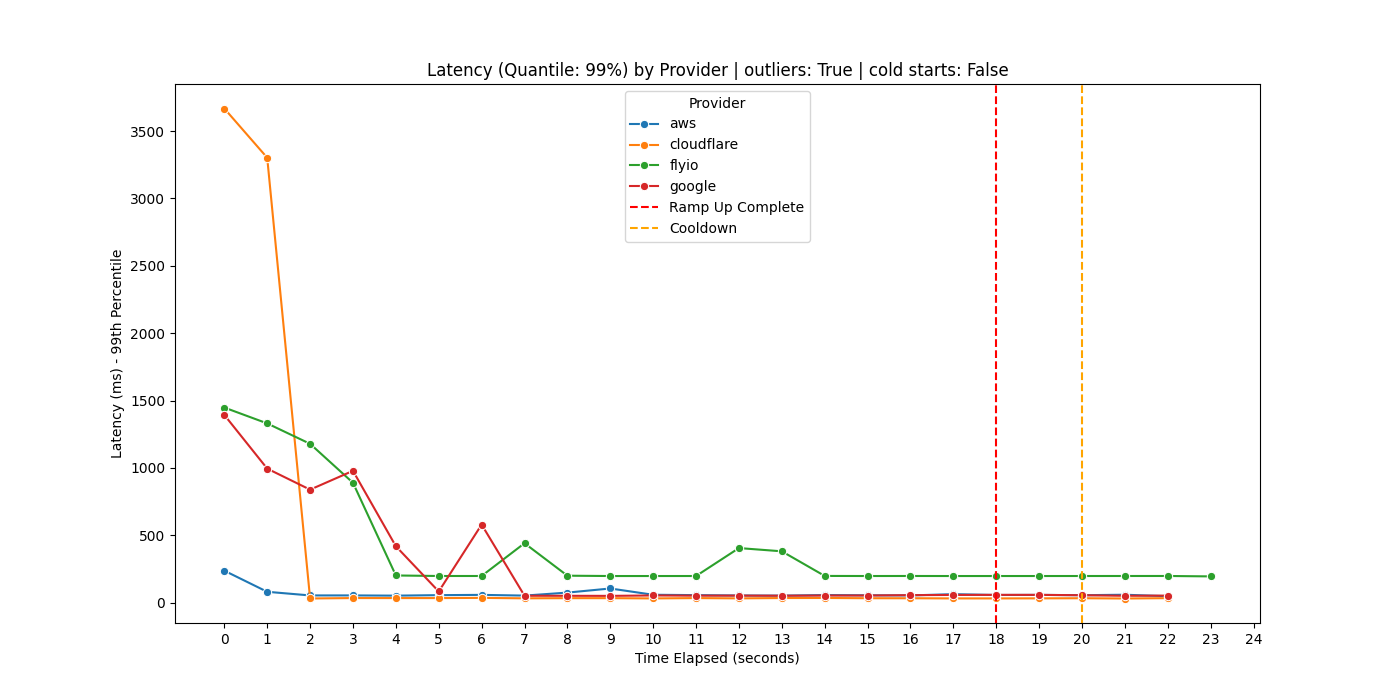
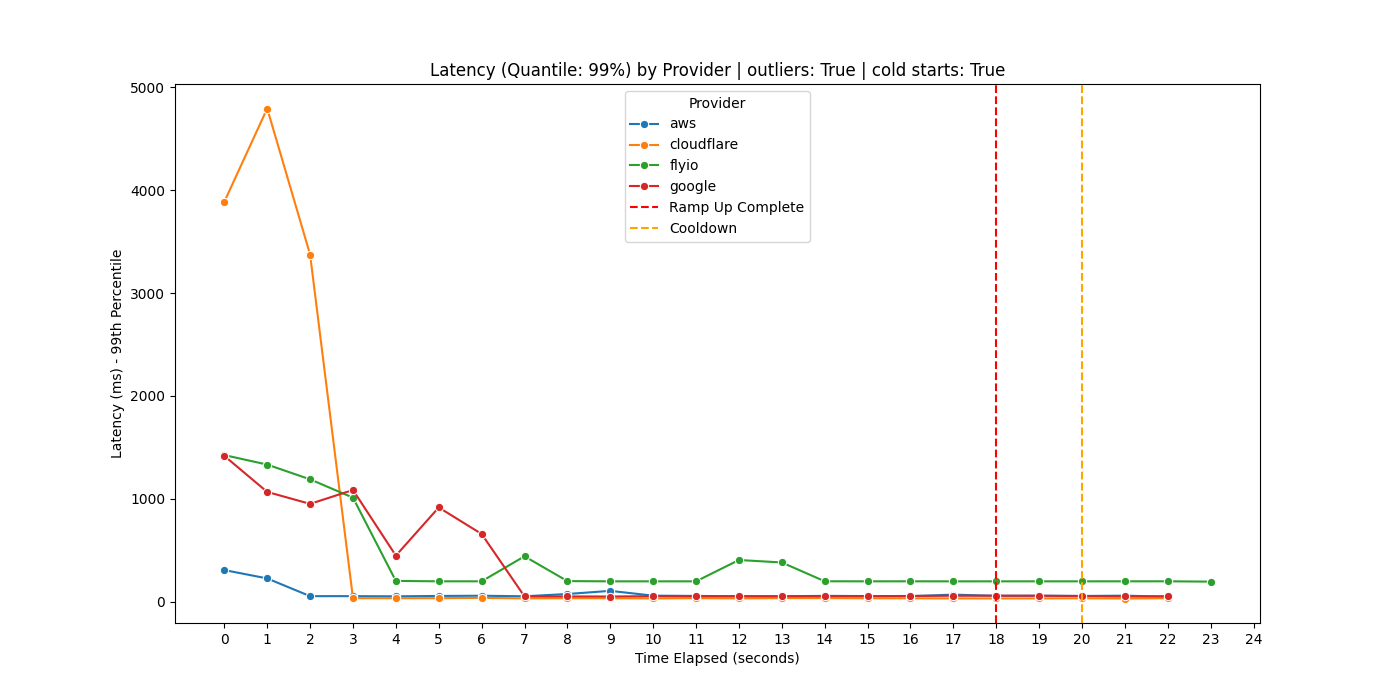
changd coldstarts for rampup

diff --git a/rampup.py b/rampup.py
@@ -70,7 +70,7 @@ data = get_data("RampUp")
 with open("rampupQuery.sql", "r") as file:
     q = file.read()
     data2 = query_data("RampUp", q)
-    rampup(data2, False, True, 50)
-    rampup(data2, False, True, 99)
+    rampup(data2, True, True, 50)
+    rampup(data2, True, True, 99)
 
 # print_headers()
